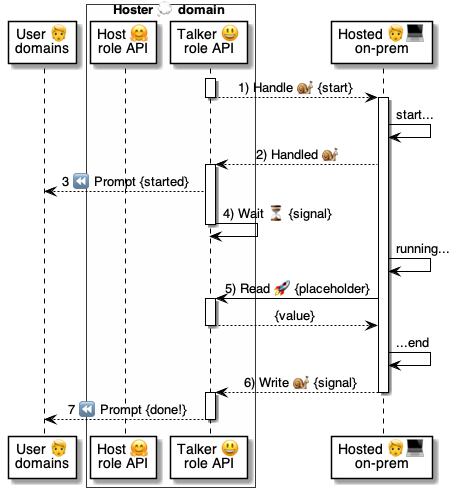
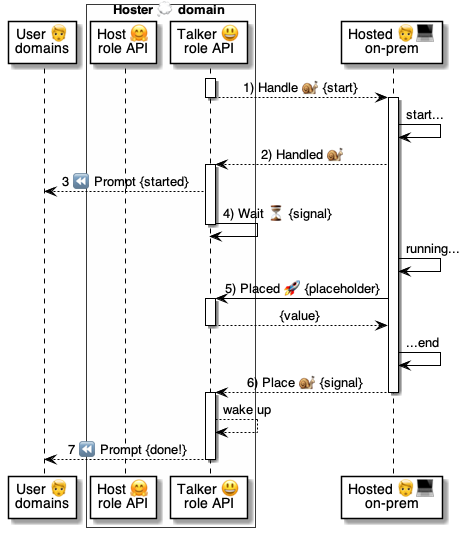
.

Changed region(s): [[0.0, 0.0, 0.9739, 0.996], [0.0913, 0.1811, 0.1217, 0.2113]]

diff --git a/5 ⏩ Flows/79 😃⏩ Talkers/30 😃⏩🧑💻 Wait ⏸.md b/5 ⏩ Flows/79 😃⏩ Talkers/30 😃⏩🧑💻 Wait ⏸.md
@@ -15,7 +15,7 @@
 |1| [😃🐌🧑💻 `Handle@Hosted`](<../../6 🅰 APIs/51 🧑💻🅰 Hosted/01 😃🐌🧑💻 Handle.md>) | [Talkers 😃](<../../9 😃 Talkers/10 📘 Talker specs/1 😃 Talker.md>) ask to handle [{Functions} 🐍](<../../9 😃 Talkers/30 🗃 Talker data/12 🐍 {Function}.md>) | 
 |2| [🧑💻🐌😃 `Handled@Talker`](<../../6 🅰 APIs/92 😃🅰 Talker/40 🧑💻🐌😃 Handled.md>) | [Hosteds 🧑💻](<../../9 😃 Talkers/90 ☁ Hosters/10 🧑💻☁ Hosted domain.md>) inform of tasks started
 |3| [🤗⏩🧑🦰 Prompt 🤔](<../50 🤗⏩ Hosts/01 🤗⏩🧑🦰 Prompt 🤔.md>) | [Talkers 😃](<../../9 😃 Talkers/10 📘 Talker specs/1 😃 Talker.md>) inform users' [Wallet 🧑🦰 apps](<../../4 ⚙ Solution/20 🧑🦰 UI/01 🧑🦰 Wallets/01 🧑🦰 Wallet app.md>)
-|4| [⏸ `WAIT` flow command](<../../../../../../9 😃 Talkers/40 🌊 Talker flows/28 ⏸ WAIT flow.md>) | [Talkers 😃](<../../9 😃 Talkers/10 📘 Talker specs/1 😃 Talker.md>) go to sleep until signaled 
-|5| [🧑💻🚀😃 `Read@Talker`](<../../6 🅰 APIs/92 😃🅰 Talker/10 🧑💻🚀😃 Read.md>) | [Hosteds 🧑💻](<../../9 😃 Talkers/90 ☁ Hosters/10 🧑💻☁ Hosted domain.md>) read [$Placeholders 💾](<../../9 😃 Talkers/30 🗃 Talker data/10 💾 $Placeholder.md>)
-|6| [🧑💻🐌😃 `Write@Hoster`](<../../6 🅰 APIs/92 😃🅰 Talker/20 🧑💻🐌😃 Write.md>) | [Hosteds 🧑💻](<../../9 😃 Talkers/90 ☁ Hosters/10 🧑💻☁ Hosted domain.md>) wake up the [⏸ `WAIT` flow](<../../../../../../9 😃 Talkers/40 🌊 Talker flows/28 ⏸ WAIT flow.md>)
+|4| [⏸ `WAIT` flow command](<../../9 😃 Talkers/40 🌊 Talker flows/28 ⏸ WAIT flow.md>) | [Talkers 😃](<../../9 😃 Talkers/10 📘 Talker specs/1 😃 Talker.md>) go to sleep until signaled 
+|5| [🧑💻🚀😃 `Placed@Talker`](<../../6 🅰 APIs/92 😃🅰 Talker/10 🧑💻🚀😃 Placed.md>) | [Hosteds 🧑💻](<../../9 😃 Talkers/90 ☁ Hosters/10 🧑💻☁ Hosted domain.md>) read [$Placeholders 💾](<../../9 😃 Talkers/30 🗃 Talker data/10 💾 $Placeholder.md>)
+|6| [🧑💻🐌😃 `Put@Hoster`](<../../6 🅰 APIs/92 😃🅰 Talker/20 🧑💻🐌😃 Place.md>) | [Hosteds 🧑💻](<../../9 😃 Talkers/90 ☁ Hosters/10 🧑💻☁ Hosted domain.md>) wake up the [⏸ `WAIT` flow](<../../9 😃 Talkers/40 🌊 Talker flows/28 ⏸ WAIT flow.md>)
 | 

diff --git a/9 😃 Talkers/60 ⏩ Msg Flows/51 🛰 RELAY msg.md b/9 😃 Talkers/60 ⏩ Msg Flows/51 🛰 RELAY msg.md
@@ -8,7 +8,7 @@
 1. **What's a RELAY item command?**
 
     A `RELAY` 
-    * is a [Command ⌘](<../../../../../../9 😃 Talkers/40 🌊 Talker flows/10 ⌘ Command.md>) 
+    * is a [Command ⌘](<../40 🌊 Talker flows/10 ⌘ Command.md>) 
     * that sends messages to physical devices
     * via [Relayer 🛰 helper domains](<../../4 ⚙ Solution/60 🧰 Edge/61 🔌 Pluggables/04 🛰🛠 Relayer helper.md>).
 
@@ -40,8 +40,8 @@
     | `<key>`  | Unique device key in the pool
     | `<script>` | Message to send to the device
     | `$result` | The response returned by the [Relayer 🛰](<../../4 ⚙ Solution/60 🧰 Edge/61 🔌 Pluggables/04 🛰🛠 Relayer helper.md>)
-    | `<failure>` | [Procedure ⚙](<../../../../../../9 😃 Talkers/40 🌊 Talker flows/11 ⚙ Procedure.md>) or [Command ⌘](<../../../../../../9 😃 Talkers/40 🌊 Talker flows/10 ⌘ Command.md>) to run on failure
-    | `<success>` | [Procedure ⚙](<../../../../../../9 😃 Talkers/40 🌊 Talker flows/11 ⚙ Procedure.md>) or [Command ⌘](<../../../../../../9 😃 Talkers/40 🌊 Talker flows/10 ⌘ Command.md>) to run on success
+    | `<failure>` | [Procedure ⚙](<../40 🌊 Talker flows/11 ⚙ Procedure.md>) or [Command ⌘](<../40 🌊 Talker flows/10 ⌘ Command.md>) to run on failure
+    | `<success>` | [Procedure ⚙](<../40 🌊 Talker flows/11 ⚙ Procedure.md>) or [Command ⌘](<../40 🌊 Talker flows/10 ⌘ Command.md>) to run on success
 
     ---
     <br/>
@@ -75,7 +75,7 @@
     - SUCCESS|Locker opened. # Notify the user
     ```
 
-    | [Command ⌘](<../../../../../../9 😃 Talkers/40 🌊 Talker flows/10 ⌘ Command.md>) | Purpose
+    | [Command ⌘](<../40 🌊 Talker flows/10 ⌘ Command.md>) | Purpose
     |-|-
     | 🪵 [`LOG`](<../30 🗃 Talker data/15 🪵 LOG flow.md>) | To log the result.
     

diff --git a/9 😃 Talkers/60 ⏩ Msg Flows/44 🔗 BIND msg.md b/9 😃 Talkers/60 ⏩ Msg Flows/44 🔗 BIND msg.md
@@ -7,7 +7,7 @@
 1. **What is a BIND message command?**
 
     A `BIND`
-    * is a message [Command ⌘](<../../../../../../9 😃 Talkers/40 🌊 Talker flows/10 ⌘ Command.md>) 
+    * is a message [Command ⌘](<../40 🌊 Talker flows/10 ⌘ Command.md>) 
     * that invokes the [Bind @ Vault ⏩ flow](<../../5 ⏩ Flows/90 🧑🦰👉 Wallets/30 👉🔗 Binds/02 🧑🦰👉🗄 Bind.md>).
 
     ---
@@ -123,9 +123,9 @@
        Else: FAILURE|Not bounded.
    ```
 
-   | [Command ⌘](<../../../../../../9 😃 Talkers/40 🌊 Talker flows/10 ⌘ Command.md>) | Purpose
+   | [Command ⌘](<../40 🌊 Talker flows/10 ⌘ Command.md>) | Purpose
    |-|-
-   | ⤵ [IF](<../../../../../../9 😃 Talkers/40 🌊 Talker flows/21 ⤵ IF flow.md>) | To verify the result.  
+   | ⤵ [IF](<../40 🌊 Talker flows/21 ⤵ IF flow.md>) | To verify the result.  
    
    ---
    <br/>
@@ -145,10 +145,10 @@
        Else: FAILURE|Not bounded.
    ```
 
-   | [Command ⌘](<../../../../../../9 😃 Talkers/40 🌊 Talker flows/10 ⌘ Command.md>) | Purpose
+   | [Command ⌘](<../40 🌊 Talker flows/10 ⌘ Command.md>) | Purpose
    |-|-
    | ⬇ [`EVAL`](<../30 🗃 Talker data/20 ⬇ EVAL flow.md>) | To put the bindable array into a placeholder.
-   | ⤵ [`IF`](<../../../../../../9 😃 Talkers/40 🌊 Talker flows/21 ⤵ IF flow.md>) | To verify the result.
+   | ⤵ [`IF`](<../40 🌊 Talker flows/21 ⤵ IF flow.md>) | To verify the result.
    
    ---
    <br/>

diff --git a/9 😃 Talkers/30 🗃 Talker data/12 🐍 {Function}.md b/9 😃 Talkers/30 🗃 Talker data/12 🐍 {Function}.md
@@ -41,7 +41,7 @@
     INFO|{$p.A} # Prints "another property"
     ```
 
-    | [Command ⌘](<../../../../../../9 😃 Talkers/40 🌊 Talker flows/10 ⌘ Command.md>) | Purpose
+    | [Command ⌘](<../40 🌊 Talker flows/10 ⌘ Command.md>) | Purpose
     |-|-
     | ⬇ [`EVAL`](<20 ⬇ EVAL flow.md>) | To push an object into a [$placeholder 💾](<10 💾 $Placeholder.md>).
     | ℹ [`INFO`](<../20 🤔 Prompts/4 ⚠ Status prompts/21 ℹ INFO prompt.md>) | To show the placeholder values.
@@ -73,7 +73,7 @@
     - INFO|Although you typed `{$n.Text}`
     ```
 
-    | [Command ⌘](<../../../../../../9 😃 Talkers/40 🌊 Talker flows/10 ⌘ Command.md>) | Purpose
+    | [Command ⌘](<../40 🌊 Talker flows/10 ⌘ Command.md>) | Purpose
     |-|-
     | ℹ [`INFO`](<../20 🤔 Prompts/4 ⚠ Status prompts/21 ℹ INFO prompt.md>) | To show the [$placeholder 💾](<10 💾 $Placeholder.md>) values.
     | ↕ [`QUANTITY`](<../20 🤔 Prompts/7 ✏ Input prompts/42 ↕ QUANTITY prompt.md>) | To collect the number input.
@@ -159,7 +159,7 @@
     - INFO|{$n}+{$n} equals {Sum($n,$n)}
     ```
 
-    | [Command ⌘](<../../../../../../9 😃 Talkers/40 🌊 Talker flows/10 ⌘ Command.md>) | Purpose
+    | [Command ⌘](<../40 🌊 Talker flows/10 ⌘ Command.md>) | Purpose
     |-|-
     | ↕ [`QUANTITY`](<../20 🤔 Prompts/7 ✏ Input prompts/42 ↕ QUANTITY prompt.md>) | To collect the number input.
 

diff --git a/3 🤝 Use Cases/02 🍲 Eat & Drink/20 🏪 Vending/93 😃 Owner: Talker.md b/3 🤝 Use Cases/02 🍲 Eat & Drink/20 🏪 Vending/93 😃 Owner: Talker.md
@@ -89,7 +89,7 @@ Success:
 
 ## Commands
 
-|Type|[Command ⌘](<../../../../../../../9 😃 Talkers/40 🌊 Talker flows/10 ⌘ Command.md>)|Purpose
+|Type|[Command ⌘](<../../../9 😃 Talkers/40 🌊 Talker flows/10 ⌘ Command.md>)|Purpose
 |-|-|-
 |Data| 🪣 [`MAP`](<../../../9 😃 Talkers/30 🗃 Talker data/61 🪣 MAP item.md>) | Look up items and machines
 |Input | 🔢 [`DIGITS`](<../../../9 😃 Talkers/20 🤔 Prompts/7 ✏ Input prompts/44 🔢 DIGITS prompt.md>) | Ask for item number
@@ -97,7 +97,7 @@ Success:
 |Status| ⏳ [`TEMP`](<../../../9 😃 Talkers/20 🤔 Prompts/4 ⚠ Status prompts/25 ⏳ TEMP prompt.md>) | Show delivering status
 || ✅ [`SUCCESS`](<../../../9 😃 Talkers/20 🤔 Prompts/4 ⚠ Status prompts/23 ✅ SUCCESS prompt.md>) | Ask to pick the item
 || ❌ [`FAILURE`](<../../../9 😃 Talkers/20 🤔 Prompts/4 ⚠ Status prompts/24 ❌ FAILURE prompt.md>) | To show in case of error
-|Flow| ⤵ [`IF`](<../../../../../../../9 😃 Talkers/40 🌊 Talker flows/21 ⤵ IF flow.md>)
+|Flow| ⤵ [`IF`](<../../../9 😃 Talkers/40 🌊 Talker flows/21 ⤵ IF flow.md>)
 ||⬇ [`EVAL`](<../../../9 😃 Talkers/30 🗃 Talker data/20 ⬇ EVAL flow.md>)
 ||🪵 [`LOG`](<../../../9 😃 Talkers/30 🗃 Talker data/15 🪵 LOG flow.md>)
 |Message| 💼 [`SHARE`](<../../../9 😃 Talkers/60 ⏩ Msg flows/45 💼 SHARE msg.md>) | Ask for proof of over 21

diff --git a/9 😃 Talkers/20 🤔 Prompts/7 ✏ Input prompts/42 ↕ QUANTITY prompt.md b/9 😃 Talkers/20 🤔 Prompts/7 ✏ Input prompts/42 ↕ QUANTITY prompt.md
@@ -158,11 +158,11 @@
     - TEMP|Checking availability...
     ```
 
-    | [Command ⌘](<../../../../../../../9 😃 Talkers/40 🌊 Talker flows/10 ⌘ Command.md>) | Purpose
+    | [Command ⌘](<../../40 🌊 Talker flows/10 ⌘ Command.md>) | Purpose
     |-|-
     | ℹ [`INFO`](<../4 ⚠ Status prompts/21 ℹ INFO prompt.md>) | To show the result.
     | 1⃣ [`ONE`](<53 1⃣ ONE prompt.md>) | To show the options.
-    | 🔀 [`CASE`](<../../../../../../../9 😃 Talkers/40 🌊 Talker flows/22 🔀 CASE flow.md>) | To check the selected option.
+    | 🔀 [`CASE`](<../../40 🌊 Talker flows/22 🔀 CASE flow.md>) | To check the selected option.
     | ⏳ [`TEMP`](<../4 ⚠ Status prompts/25 ⏳ TEMP prompt.md>) | To show work in progress.
     
 
@@ -202,10 +202,10 @@
     - REPEAT
     ```
 
-    | [Command ⌘](<../../../../../../../9 😃 Talkers/40 🌊 Talker flows/10 ⌘ Command.md>) | Purpose
+    | [Command ⌘](<../../40 🌊 Talker flows/10 ⌘ Command.md>) | Purpose
     |-|-
     | ℹ [`INFO`](<../4 ⚠ Status prompts/21 ℹ INFO prompt.md>) | To show the message.
-    | 🔁 [`REPEAT`](<../../../../../../../9 😃 Talkers/40 🌊 Talker flows/23 🔁 REPEAT flow.md>) | To repeat the input cycle forever.
+    | 🔁 [`REPEAT`](<../../40 🌊 Talker flows/23 🔁 REPEAT flow.md>) | To repeat the input cycle forever.
      
 
     ---

diff --git a/9 😃 Talkers/20 🤔 Prompts/1 📘 Prompt specs/04 🔘 with Options.md b/9 😃 Talkers/20 🤔 Prompts/1 📘 Prompt specs/04 🔘 with Options.md
@@ -159,10 +159,10 @@
         Share: INFO|You choose to share.
     ```
 
-    | [Command ⌘](<../../../../../../../9 😃 Talkers/40 🌊 Talker flows/10 ⌘ Command.md>) | Purpose
+    | [Command ⌘](<../../40 🌊 Talker flows/10 ⌘ Command.md>) | Purpose
     |-|-
     | 1⃣ [`ONE`](<../7 ✏ Input prompts/53 1⃣ ONE prompt.md>) | To show the options.
-    | 🔀 [`CASE`](<../../../../../../../9 😃 Talkers/40 🌊 Talker flows/22 🔀 CASE flow.md>) | To check the selected option.
+    | 🔀 [`CASE`](<../../40 🌊 Talker flows/22 🔀 CASE flow.md>) | To check the selected option.
     | ℹ [`INFO`](<../4 ⚠ Status prompts/21 ℹ INFO prompt.md>) | To show the result.
     
 
@@ -234,10 +234,10 @@
     ```
 
 
-    | [Command ⌘](<../../../../../../../9 😃 Talkers/40 🌊 Talker flows/10 ⌘ Command.md>) | Purpose
+    | [Command ⌘](<../../40 🌊 Talker flows/10 ⌘ Command.md>) | Purpose
     |-|-
     | 1⃣ [`ONE`](<../7 ✏ Input prompts/53 1⃣ ONE prompt.md>) | To show the options.
-    | 🔀 [`CASE`](<../../../../../../../9 😃 Talkers/40 🌊 Talker flows/22 🔀 CASE flow.md>) | To check the selected option.
+    | 🔀 [`CASE`](<../../40 🌊 Talker flows/22 🔀 CASE flow.md>) | To check the selected option.
     | ℹ [`INFO`](<../4 ⚠ Status prompts/21 ℹ INFO prompt.md>) | To show the result.
     
 

diff --git a/6 🅰 APIs/92 😃🅰 Talker/10 🧑💻🚀😃 Placed.md b/6 🅰 APIs/92 😃🅰 Talker/10 🧑💻🚀😃 Placed.md
@@ -1,4 +1,4 @@
-# 🧑💻🚀☁ Read @ Hoster
+# 🧑💻🚀☁ Placed @ Hoster
 
 > Implements [Hoster ☁ helper domain](<../../9 😃 Talkers/90 ☁ Hosters/05 ☁🛠 Hoster helper.md>)
 
@@ -6,7 +6,7 @@
 
 > Reads a [$Placeholder 💾](<../../9 😃 Talkers/30 🗃 Talker data/10 💾 $Placeholder.md>)
 
-> Paired with [`Write@Talker`](<20 🧑💻🐌😃 Write.md>) method
+> Paired with [`Place@Talker`](<20 🧑💻🐌😃 Place.md>) method
 
 
 <br/>
@@ -17,7 +17,7 @@
 Header:
     From: any-host.com
     To: any-hoster.com
-    Subject: Read@Talker
+    Subject: Placed@Talker
 
 Body:
     ChatID: <chat-uuid>
@@ -29,7 +29,7 @@ Body:
 |-|-|-|-
 | Header    | `From`        | string    | [Host 🤗 domain](<../../4 ⚙ Solution/20 🧑🦰 UI/12 💬 Chats/04 🤗🎭 Host role.md>) name
 |           | `To`          | string    | [Hoster ☁ domain](<../../9 😃 Talkers/90 ☁ Hosters/05 ☁🛠 Hoster helper.md>) name
-|           | `Subject`     | string    | `Read@Talker`
+|           | `Subject`     | string    | `Placed@Talker`
 | Body      | `ChatID`      | uuid      | [Chat 💬](<../../4 ⚙ Solution/20 🧑🦰 UI/12 💬 Chats/01 💬 Chat.md>) ID
 |           | `Placeholder` | string    | [$Placeholder 💾](<../../9 😃 Talkers/30 🗃 Talker data/10 💾 $Placeholder.md>) name
 |

diff --git a/6 🅰 APIs/92 😃🅰 Talker/20 🧑💻🐌😃 Place.md b/6 🅰 APIs/92 😃🅰 Talker/20 🧑💻🐌😃 Place.md
@@ -4,7 +4,7 @@
 
 > Part of [😃⏩🧑💻 Wait @ Talker](<../../5 ⏩ Flows/79 😃⏩ Talkers/30 😃⏩🧑💻 Wait ⏸.md>) flow
 
-> Paired with [`Read@Talker`](<10 🧑💻🚀😃 Read.md>) method
+> Paired with [`Placed@Talker`](<10 🧑💻🚀😃 Placed.md>) method
 
 > Writes to a [$Placeholder 💾](<../../9 😃 Talkers/30 🗃 Talker data/10 💾 $Placeholder.md>)
 
@@ -17,7 +17,7 @@
 Header:
     From: any-host.com
     To: any-hoster.com
-    Subject: Write@Talker
+    Subject: Place@Talker
 
 Body:
     ChatID: <chat-uuid>
@@ -29,7 +29,7 @@ Body:
 |-|-|-|-
 | Header    | `From`        | string    | [Host 🤗 domain](<../../4 ⚙ Solution/20 🧑🦰 UI/12 💬 Chats/04 🤗🎭 Host role.md>) name
 |           | `To`          | string    | [Hoster ☁ domain](<../../9 😃 Talkers/90 ☁ Hosters/05 ☁🛠 Hoster helper.md>) name
-|           | `Subject`     | string    | `Write@Talker`
+|           | `Subject`     | string    | `Place@Talker`
 | Body      | `ChatID`      | uuid      | [Chat 💬](<../../4 ⚙ Solution/20 🧑🦰 UI/12 💬 Chats/01 💬 Chat.md>) ID
 |           | `Placeholder` | string    | [$Placeholder 💾](<../../9 😃 Talkers/30 🗃 Talker data/10 💾 $Placeholder.md>) name
 |           | `Value`       | any    | Any value to write

diff --git a/9 😃 Talkers/20 🤔 Prompts/7 ✏ Input prompts/31 👍 CONFIRM prompt.md b/9 😃 Talkers/20 🤔 Prompts/7 ✏ Input prompts/31 👍 CONFIRM prompt.md
@@ -42,8 +42,8 @@
     
     | Argument| Purpose | Example
     |-|-|-
-    | `Then` | [Procedure ⚙](<../../../../../../../9 😃 Talkers/40 🌊 Talker flows/11 ⚙ Procedure.md>) or [Command ⌘](<../../../../../../../9 😃 Talkers/40 🌊 Talker flows/10 ⌘ Command.md>) on `True` | `INFO\|OK`
-    | `Else` | [Procedure ⚙](<../../../../../../../9 😃 Talkers/40 🌊 Talker flows/11 ⚙ Procedure.md>) or [Command ⌘](<../../../../../../../9 😃 Talkers/40 🌊 Talker flows/10 ⌘ Command.md>) on `False` | `INFO\|NOK`
+    | `Then` | [Procedure ⚙](<../../40 🌊 Talker flows/11 ⚙ Procedure.md>) or [Command ⌘](<../../40 🌊 Talker flows/10 ⌘ Command.md>) on `True` | `INFO\|OK`
+    | `Else` | [Procedure ⚙](<../../40 🌊 Talker flows/11 ⚙ Procedure.md>) or [Command ⌘](<../../40 🌊 Talker flows/10 ⌘ Command.md>) on `False` | `INFO\|NOK`
     | `Emoji` | Optional [alternative emoji 😶](<../2 ✏ Input specs/14 😶 Input emojis.md>) | `😶`
     | `Details` | Optional [expandable details ⊕](<../1 📘 Prompt specs/03 ⊕ with Details.md>) | `Hint...`
     | `Appendix` | Optional [file attachment 📎](<../1 📘 Prompt specs/05 📎 with Appendix.md>) | `{/...}`

diff --git a/9 😃 Talkers/60 ⏩ Msg Flows/45 💼 SHARE msg.md b/9 😃 Talkers/60 ⏩ Msg Flows/45 💼 SHARE msg.md
@@ -7,7 +7,7 @@
 1. **What is a SHARE message command?**
 
     A `SHARE`
-    * is a message [Command ⌘](<../../../../../../9 😃 Talkers/40 🌊 Talker flows/10 ⌘ Command.md>) 
+    * is a message [Command ⌘](<../40 🌊 Talker flows/10 ⌘ Command.md>) 
     * that asks for user data in [Schema Codes 🧩](<../../4 ⚙ Solution/20 🧑🦰 UI/24 🗄 Vaults/02 🧩 Schema Code.md>)
     * triggering the following flows:
       * [🧑🦰👉💼 Share Bind @ Wallet](<../../5 ⏩ Flows/90 🧑🦰👉 Wallets/30 👉🔗 Binds/04 🧑🦰👉💼 Share Bind.md>)
@@ -81,9 +81,9 @@
     SUCCESS|Hi, {$social.Name}!
     ```
 
-    | [Command ⌘](<../../../../../../9 😃 Talkers/40 🌊 Talker flows/10 ⌘ Command.md>) | Purpose
+    | [Command ⌘](<../40 🌊 Talker flows/10 ⌘ Command.md>) | Purpose
     |-|-
-    | ⤵ [`IF`](<../../../../../../9 😃 Talkers/40 🌊 Talker flows/21 ⤵ IF flow.md>) | To verify the result.  
+    | ⤵ [`IF`](<../40 🌊 Talker flows/21 ⤵ IF flow.md>) | To verify the result.  
 
 
     The structure of the shared data is as follows.

diff --git a/9 😃 Talkers/60 ⏩ Msg Flows/42 ❄ FREEZE msg.md b/9 😃 Talkers/60 ⏩ Msg Flows/42 ❄ FREEZE msg.md
@@ -9,7 +9,7 @@
 1. **What is a FREEZE command?**
 
     A `FREEZE` ❄
-    * is a flow [Command ⌘](<../../../../../../9 😃 Talkers/40 🌊 Talker flows/10 ⌘ Command.md>) 
+    * is a flow [Command ⌘](<../40 🌊 Talker flows/10 ⌘ Command.md>) 
     * that freezes all previous [non-blocking Prompts 🤔](<../20 🤔 Prompts/1 📘 Prompt specs/08 ⚠ as Status.md>)
     * as described in the [Freeze ⏩](<../../5 ⏩ Flows/50 🤗⏩ Hosts/06 🤗⏩🧑🦰 Freeze ❄.md>) flow.
 
@@ -65,7 +65,7 @@
     ```
 
 
-    | [Command ⌘](<../../../../../../9 😃 Talkers/40 🌊 Talker flows/10 ⌘ Command.md>) | Purpose
+    | [Command ⌘](<../40 🌊 Talker flows/10 ⌘ Command.md>) | Purpose
     |-|-
     | 📝 [`FORM`](<41 📝 FORM msg.md>) | Show user instructions and allow inputs.
     | 1⃣ [`ONE`](<../20 🤔 Prompts/7 ✏ Input prompts/53 1⃣ ONE prompt.md>) | Select an option, the day in this case.
